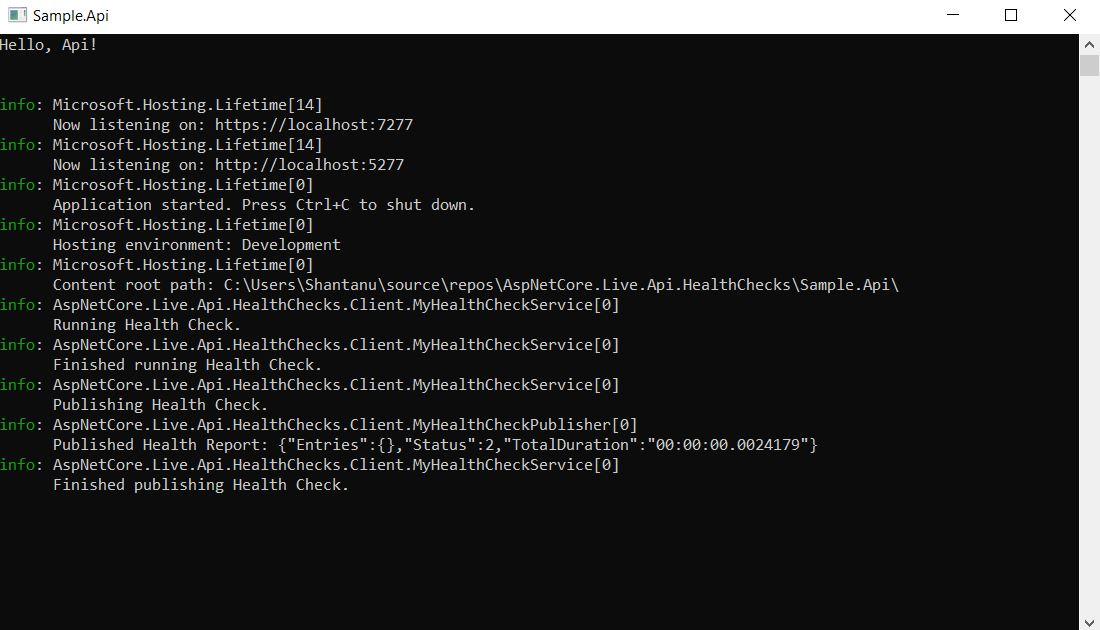
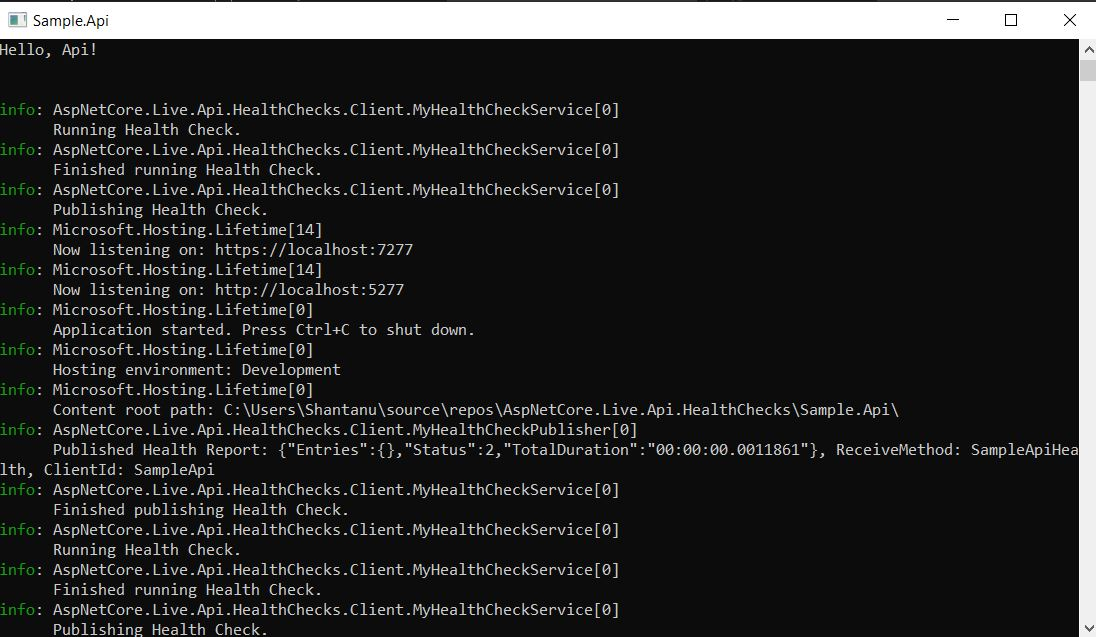
added clientid for id purposes in the logs.

Changed region(s): [[0.0, 0.0, 1.0, 1.0]]

diff --git a/AspNetCore.Live.Api.HealthChecks.Server/Hubs/LiveHealthChecksHub.cs b/AspNetCore.Live.Api.HealthChecks.Server/Hubs/LiveHealthChecksHub.cs
@@ -16,31 +16,45 @@ namespace AspNetCore.Live.Api.HealthChecks.Server.Hubs
         }
 
         public override async Task OnConnectedAsync()
-        {                   
-            var receiveMethod = Context.GetHttpContext()?.Request.Headers["LiveHealthChecks-ReceiveMethod"].ToString();
-            var secretKey = Context.GetHttpContext()?.Request.Headers["LiveHealthChecks-SecretKey"].ToString();
+        {
+            var httpContext = Context.GetHttpContext();
+
+            if (httpContext == null)
+            {
+                _logger?.LogError($"Authorization failed. HttpContext is null.");
+
+                throw new ApplicationException("Authorization failed. HttpContext is null. Server Error.");
+            }
+            
+            string clientId = string.Empty;
+            if(httpContext.Request.Headers.TryGetValue("LiveHealthChecks-ClientId", out var cId))
+            {
+                clientId = cId.ToString();
+            }
+            var receiveMethod = httpContext.Request.Headers["LiveHealthChecks-ReceiveMethod"].ToString();
+            var secretKey = httpContext.Request.Headers["LiveHealthChecks-SecretKey"].ToString();
 
             if (string.IsNullOrEmpty(receiveMethod))
             {
-                _logger?.LogError($"Authorization failed ReceiveMethod: {receiveMethod}, ConnectionId: {Context.ConnectionId}.");
+                _logger?.LogError($"Authorization failed ReceiveMethod: {receiveMethod}, ConnectionId: {Context.ConnectionId}, ClientId: {clientId}.");
 
                 throw new ApplicationException("Authorization failed. Please provide ReceiveMethod.");
             }
 
             if (string.IsNullOrEmpty(secretKey))
             {
-                _logger?.LogError($"Authorization failed ReceiveMethod: {receiveMethod}, ConnectionId: {Context.ConnectionId}.");
+                _logger?.LogError($"Authorization failed ReceiveMethod: {receiveMethod}, ConnectionId: {Context.ConnectionId}, ClientId: {clientId}.");
 
                 throw new ApplicationException("Authorization failed. Please provide SecretKey.");
             }
 
-            _logger?.LogInformation($"Logging in ReceiveMethod: {receiveMethod}, ConnectionId: {Context.ConnectionId}.");
+            _logger?.LogInformation($"Logging in ReceiveMethod: {receiveMethod}, ConnectionId: {Context.ConnectionId}, ClientId: {clientId}.");
 
             var client = _settings.Clients?.SingleOrDefault(c => c.ReceiveMethod == receiveMethod && c.SecretKey == secretKey);
 
             if (client == null)
             {
-                _logger?.LogError($"Authorization failed ReceiveMethod: {receiveMethod}, ConnectionId: {Context.ConnectionId}.");
+                _logger?.LogError($"Authorization failed ReceiveMethod: {receiveMethod}, ConnectionId: {Context.ConnectionId}, ClientId: {clientId}.");
 
                 throw new ApplicationException("Authorization failed.");
             }
@@ -51,15 +65,16 @@ namespace AspNetCore.Live.Api.HealthChecks.Server.Hubs
                 {
                     var loggedInUser = new LoggedInUser
                     {
+                        ClientId = clientId,
                         ReceiveMethod = receiveMethod,
                         ConnectionId = Context.ConnectionId
                     };                    
 
-                    Context.Items.Add(Context.ConnectionId, receiveMethod);
+                    Context.Items.Add(Context.ConnectionId, loggedInUser);
 
                     _loggedInUsers.Add(loggedInUser);
 
-                    _logger?.LogInformation($"Logged in ReceiveMethod: {receiveMethod}, ConnectionId: {Context.ConnectionId}.");
+                    _logger?.LogInformation($"Logged in ReceiveMethod: {receiveMethod}, ConnectionId: {Context.ConnectionId}, ClientId: {clientId}.");
                 }                
             }                        
 
@@ -76,13 +91,21 @@ namespace AspNetCore.Live.Api.HealthChecks.Server.Hubs
             try
             {
                 lock(this)
-                {
-                    _logger?.LogInformation($"Logging out ConnectionId: {Context.ConnectionId}.");
+                {                    
+                    var loggedInUser = Context.Items[Context.ConnectionId] as LoggedInUser;
 
-                    _loggedInUsers.RemoveAll(u => u.ReceiveMethod == Context.Items[Context.ConnectionId]?.ToString() 
+                    if (loggedInUser == null)
+                    {
+                        throw new ApplicationException("LoggedInUser details is null");
+                    }
+
+                    _logger?.LogInformation($"Logging out ConnectionId: {Context.ConnectionId}, ReceiveMethod: {loggedInUser.ReceiveMethod}, ClientId: {loggedInUser.ClientId}.");
+
+                    _loggedInUsers.RemoveAll(u => u.ClientId == loggedInUser.ClientId 
+                                                    && u.ReceiveMethod == loggedInUser.ReceiveMethod 
                                                     && u.ConnectionId == Context.ConnectionId);
 
-                    _logger?.LogInformation($"Logged out ConnectionId: {Context.ConnectionId}.");
+                    _logger?.LogInformation($"Logged out ConnectionId: {Context.ConnectionId}, ReceiveMethod: {loggedInUser.ReceiveMethod}, ClientId: {loggedInUser.ClientId}.");
                 }                
             }
             catch (Exception ex)
@@ -106,7 +129,7 @@ namespace AspNetCore.Live.Api.HealthChecks.Server.Hubs
 
                 if (string.Compare(client.SecretKey, myHealthCheck.SecretKey, false) == 0)
                 {
-                    _logger?.LogInformation($"Sending Health Report ({myHealthCheck.Report}) to {myHealthCheck.ReceiveMethod}. Connection Id: {base.Context.ConnectionId}.");
+                    _logger?.LogInformation($"Sending Health Report ({myHealthCheck.Report}) to {myHealthCheck.ReceiveMethod}. Connection Id: {Context.ConnectionId}.");
 
                     var connectionIds = _loggedInUsers.Where(u => u.ReceiveMethod == "*" || u.ReceiveMethod == myHealthCheck.ReceiveMethod)
                                                       .Select(u => u.ConnectionId)
@@ -114,12 +137,12 @@ namespace AspNetCore.Live.Api.HealthChecks.Server.Hubs
 
                     await base.Clients.Clients(connectionIds).SendAsync(myHealthCheck.ReceiveMethod, myHealthCheck.Report, new object());
 
-                    _logger?.LogInformation($"Sent Health Report ({myHealthCheck.Report}) to {myHealthCheck.ReceiveMethod}. Connection Id: {base.Context.ConnectionId}.");
+                    _logger?.LogInformation($"Sent Health Report ({myHealthCheck.Report}) to {myHealthCheck.ReceiveMethod}. Connection Id: {Context.ConnectionId}.");
                 }
             }
             catch (Exception ex)
             {
-                _logger?.LogError(ex, $"Error in {nameof(LiveHealthChecksHub)}.");
+                _logger?.LogError(ex, $"Server Error in {nameof(LiveHealthChecksHub)}.");
                 throw;
             }                      
         }

diff --git a/Sample.MonitoringApp/Program.cs b/Sample.MonitoringApp/Program.cs
@@ -8,14 +8,23 @@ Thread.Sleep(1000 * 15);
 
 var connection = new HubConnectionBuilder()
                         .WithUrl("https://localhost:5001/livehealthcheckshub", o =>
-                        {
-                            o.Headers.Add("LiveHealthChecks-ReceiveMethod", "SampleApiHealth");
-                            o.Headers.Add("LiveHealthChecks-SecretKey", "43bf0968-17e0-4d22-816a-6eaadd766692");
+                        {                            
+                            o.Headers.Add("LiveHealthChecks-ReceiveMethod", "*");
+                            o.Headers.Add("LiveHealthChecks-SecretKey", "f22f3fd2-687d-48a1-aa2f-f2c9181364eb");
+                            //Optional - value can be anything you want. good for tracking in the logs.
+                            o.Headers.Add("LiveHealthChecks-ClientId", "Monitoring App 1");
                         })
                         .WithAutomaticReconnect()
                         .Build();
 
 connection.On("SampleApiHealth", new Type[] {typeof(object), typeof(object)},
+    (arg1, arg2) =>
+    {
+        Console.WriteLine(arg1[0]);
+        return Task.CompletedTask;
+    }, new object());
+
+connection.On("SampleApi2Health", new Type[] { typeof(object), typeof(object) },
     (arg1, arg2) =>
     {
         Console.WriteLine(arg1[0]);

diff --git a/AspNetCore.Live.Api.HealthChecks.Client/MyHealthCheckPublisher.cs b/AspNetCore.Live.Api.HealthChecks.Client/MyHealthCheckPublisher.cs
@@ -40,10 +40,11 @@ namespace AspNetCore.Live.Api.HealthChecks.Client
             if (connection.State != HubConnectionState.Connected)
                 await connection.StartAsync();
 
-            _logger?.LogInformation($"Published Health Report: {publishedReport}");
+            _logger?.LogInformation($"Published Health Report: {publishedReport}, ReceiveMethod: {_settings.ReceiveMethod}, ClientId: {_settings.ClientId}");
 
             var request = new MyHealthCheckModel
             {
+                ClientId = _settings.ClientId,
                 ReceiveMethod = _settings.ReceiveMethod,
                 SecretKey = _settings.SecretKey,
                 Report = publishedReport

diff --git a/Sample.Api/Program.cs b/Sample.Api/Program.cs
@@ -10,6 +10,8 @@ builder.Services.AddHealthChecks()
                 .AddLiveHealthChecksClient(settings =>
                 {
                     settings.HealthCheckIntervalInMinutes = 60;
+                    //Providing ClientId is optional. Good for tracking in the logs.
+                    settings.ClientId = "SampleApi";
                     settings.ReceiveMethod = "SampleApiHealth";
                     settings.HealthCheckServerHubUrl = "https://localhost:5001/livehealthcheckshub";
                     settings.SecretKey = "43bf0968-17e0-4d22-816a-6eaadd766692";

diff --git a/AspNetCore.Live.Api.HealthChecks.Client/MyHealthCheckExtensions.cs b/AspNetCore.Live.Api.HealthChecks.Client/MyHealthCheckExtensions.cs
@@ -22,6 +22,9 @@ namespace AspNetCore.Live.Api.HealthChecks.Client
                     {
                         o.Headers.Add("LiveHealthChecks-ReceiveMethod", mySettings.ReceiveMethod);
                         o.Headers.Add("LiveHealthChecks-SecretKey", mySettings.SecretKey);
+
+                        if (!string.IsNullOrEmpty(mySettings.ClientId))
+                            o.Headers.Add("LiveHealthChecks-ClientId", mySettings.ClientId);
                     })
                     .WithAutomaticReconnect()
                     .Build();

diff --git a/AspNetCore.Live.Api.HealthChecks.Client/MyHealthCheckSettings.cs b/AspNetCore.Live.Api.HealthChecks.Client/MyHealthCheckSettings.cs
@@ -6,6 +6,7 @@ namespace AspNetCore.Live.Api.HealthChecks.Client
     {
         public int HealthCheckIntervalInMinutes { get; set; } = 15;
         public string HealthCheckServerHubUrl { get; set; } = string.Empty;
+        public string ClientId { get; set; } = string.Empty;
         public string ReceiveMethod { get; set; } = string.Empty;
         public string SecretKey { get; set; } = string.Empty;
         public bool PublishOnlyWhenNotHealthy { get; set; }

diff --git a/AspNetCore.Live.Api.HealthChecks.Client/MyHealthCheckModel.cs b/AspNetCore.Live.Api.HealthChecks.Client/MyHealthCheckModel.cs
@@ -2,6 +2,7 @@
 {
     public class MyHealthCheckModel
     {
+        public string ClientId { get; set; } = string.Empty;
         public string ReceiveMethod { get; set; } = string.Empty;
         public string SecretKey { get; set; } = string.Empty;
         public string Report { get; set; } = string.Empty;

diff --git a/AspNetCore.Live.Api.HealthChecks.Server/MyHealthCheckModel.cs b/AspNetCore.Live.Api.HealthChecks.Server/MyHealthCheckModel.cs
@@ -2,6 +2,7 @@
 {
     public class MyHealthCheckModel
     {
+        public string ClientId { get; set; } = string.Empty;
         public string ReceiveMethod { get; set; } = string.Empty;
         public string SecretKey { get; set; } = string.Empty;
         public string Report { get; set; } = string.Empty;

diff --git a/AspNetCore.Live.Api.HealthChecks.Server/LoggedInUser.cs b/AspNetCore.Live.Api.HealthChecks.Server/LoggedInUser.cs
@@ -2,6 +2,7 @@
 {
     public class LoggedInUser
     {
+        public string ClientId { get; set; } = string.Empty;
         public string ReceiveMethod { get; set; } = string.Empty;
         public string ConnectionId { get; set; } = string.Empty;
     }

diff --git a/README.md b/README.md
@@ -108,6 +108,8 @@ builder.Services.AddHealthChecks() //Required - add all your health checks
                 .AddLiveHealthChecksClient(settings =>
                 {
                     settings.HealthCheckIntervalInMinutes = 60;
+                    //Providing ClientId is optional. Good for tracking in the logs.
+                    settings.ClientId = "SampleApi";
                     settings.ReceiveMethod = "SampleApiHealth";
                     settings.HealthCheckServerHubUrl = "https://localhost:5001/livehealthcheckshub";
                     settings.SecretKey = "43bf0968-17e0-4d22-816a-6eaadd766692";
@@ -152,6 +154,8 @@ var connection = new HubConnectionBuilder()
                         {
                             o.Headers.Add("LiveHealthChecks-ReceiveMethod", "SampleApiHealth");
                             o.Headers.Add("LiveHealthChecks-SecretKey", "43bf0968-17e0-4d22-816a-6eaadd766692");
+                            //Optional - value can be anything you want. good for tracking in the logs.
+                            o.Headers.Add("LiveHealthChecks-ClientId", "Monitoring App 1");
                         })
                         .WithAutomaticReconnect()
                         .Build();
@@ -177,6 +181,8 @@ var connection = new HubConnectionBuilder()
                         {
                             o.Headers.Add("LiveHealthChecks-ReceiveMethod", "*");
                             o.Headers.Add("LiveHealthChecks-SecretKey", "f22f3fd2-687d-48a1-aa2f-f2c9181364eb");
+                            //Optional - value can be anything you want. good for tracking in the logs.
+                            o.Headers.Add("LiveHealthChecks-ClientId", "Monitoring App 1");
                         })
                         .WithAutomaticReconnect()
                         .Build();
